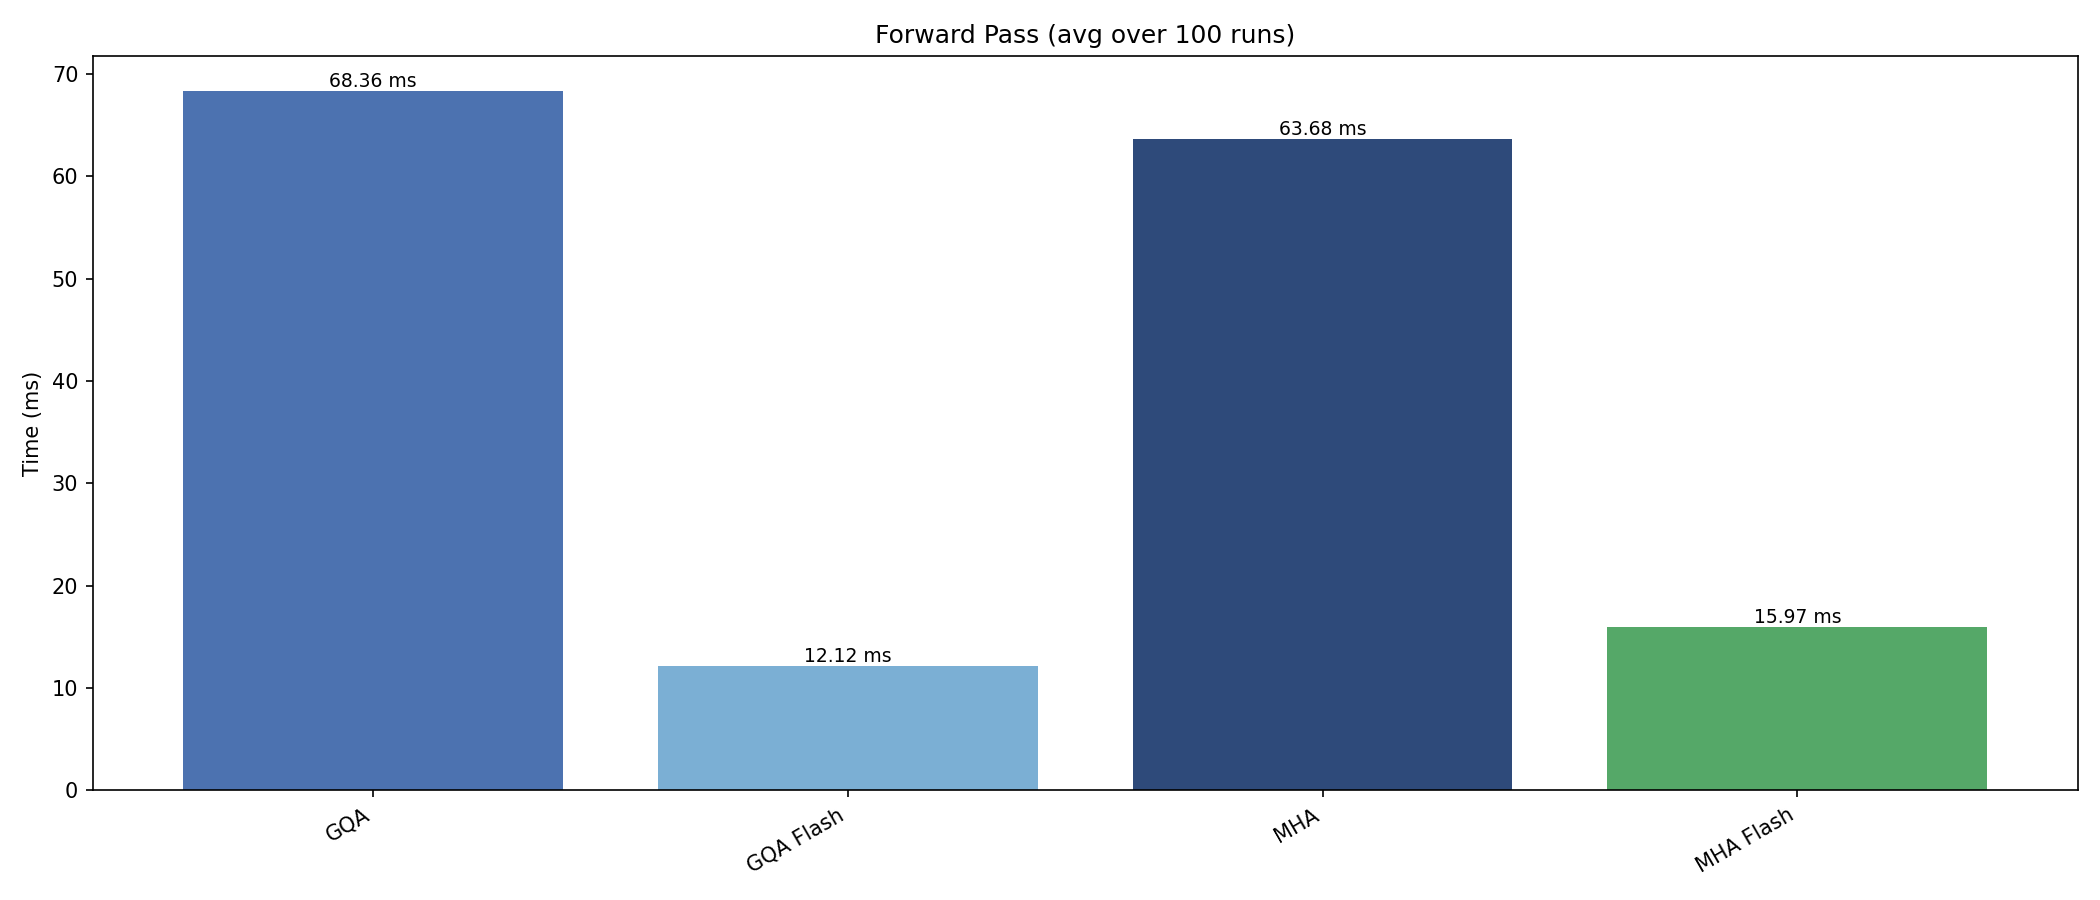
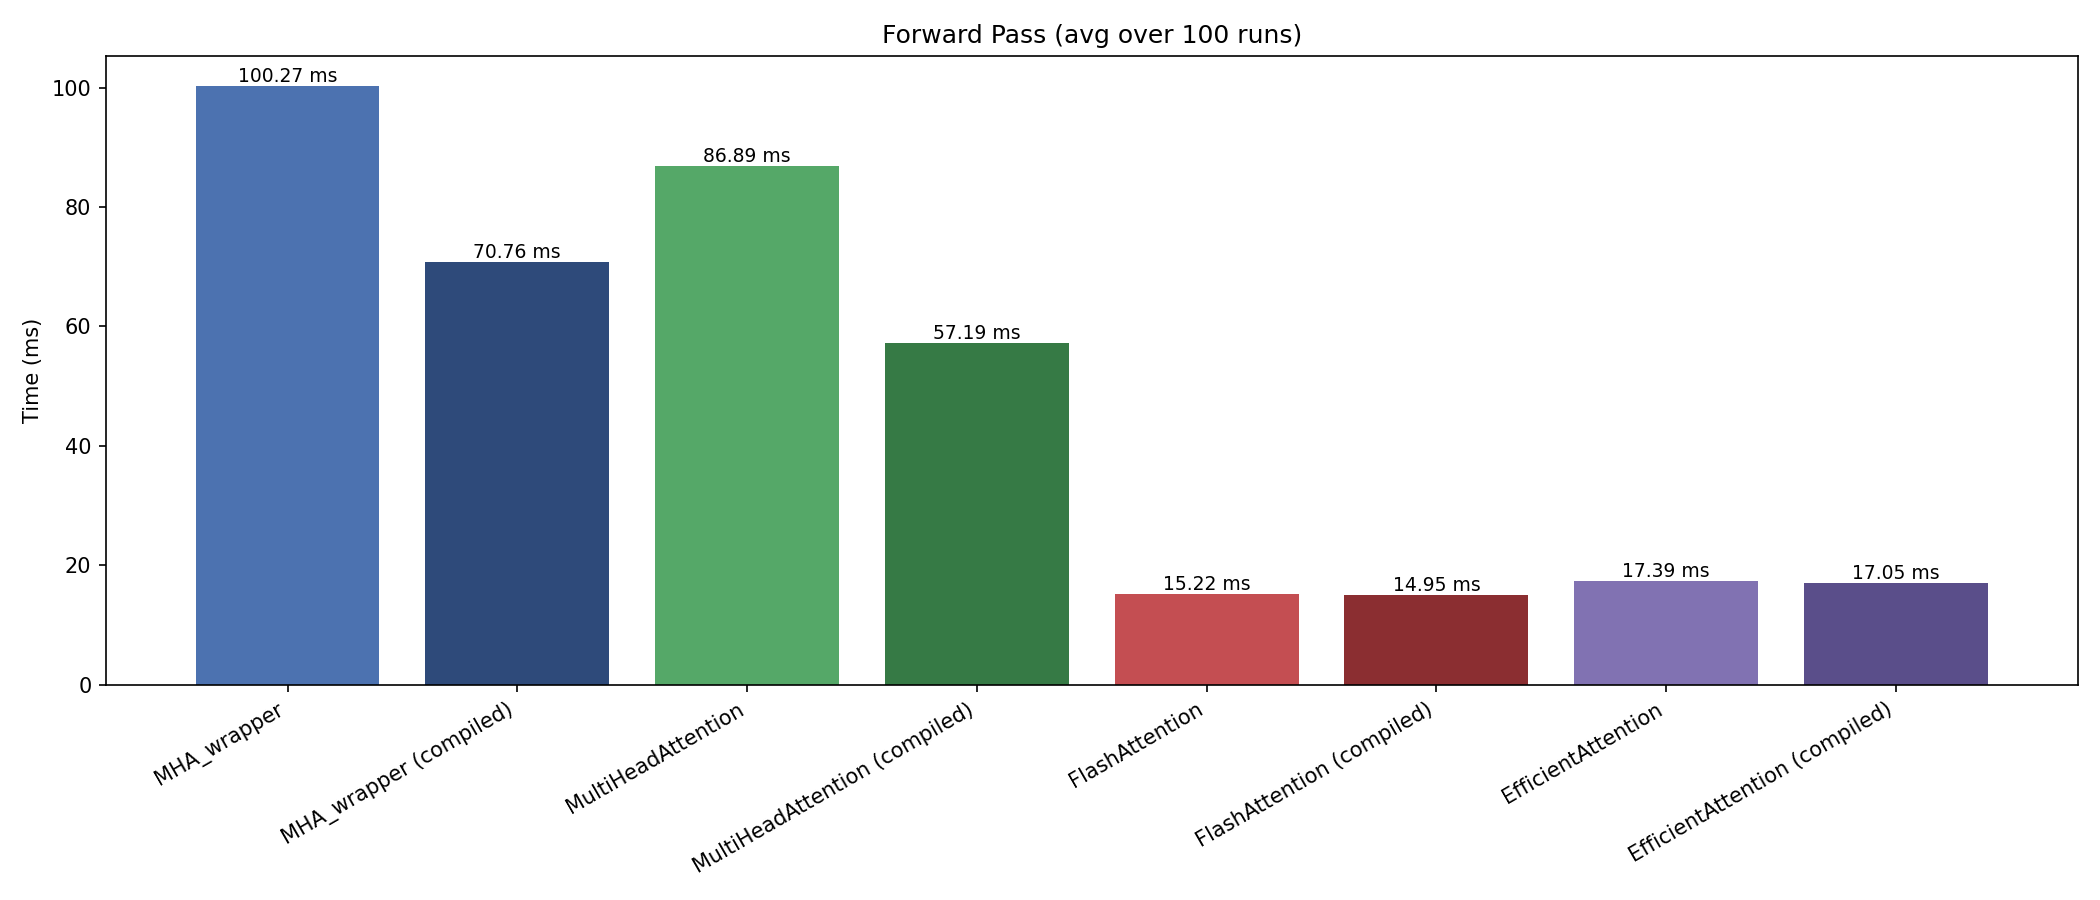
adding MFU metric and RoPE on GQA

diff --git a/metrics/MFU.py b/metrics/MFU.py
@@ -1,0 +1,113 @@
+def estimate_flops_per_layer(config: dict) -> dict:
+    """
+    Estimate the number of floating point operations per transformer layer.
+
+    config keys:
+        batch_size (B): batch size
+        seq_len (T): sequence length
+        d_model: model dimension
+        num_heads (H): number of attention heads
+        d_ff: feed-forward hidden dim (defaults to 4 * d_model if not provided)
+        num_kv_heads: number of KV heads for GQA (defaults to num_heads = standard MHA)
+
+    Each multiply-add counts as 2 FLOPs.
+    Returns a dict with per-operation and total FLOPs for one layer.
+    """
+    B = config["batch_size"]
+    T = config["seq_len"]
+    D = config["d_model"]
+    H = config["num_heads"]
+    d_head = D // H
+    d_ff = config.get("d_ff", 4 * D)
+    num_kv_heads = config.get("num_kv_heads", H)
+
+    # Q projection: B * T * D -> B * T * D
+    qkv_q = 2 * B * T * D * D
+    # K projection: B * T * D -> B * T * (num_kv_heads * d_head)
+    qkv_k = 2 * B * T * D * (num_kv_heads * d_head)
+    # V projection: same as K
+    qkv_v = 2 * B * T * D * (num_kv_heads * d_head)
+
+    # Attention scores: Q @ K^T -> (B, H, T, T)
+    # Each head does (T, d_head) @ (d_head, T) = 2 * T * T * d_head
+    attn_scores = 2 * B * H * T * T * d_head
+
+    # Attention @ V -> (B, H, T, d_head)
+    attn_v = 2 * B * H * T * T * d_head
+
+    # Output projection: B * T * D -> B * T * D
+    out_proj = 2 * B * T * D * D
+
+    # FFN: two linear layers (D -> d_ff -> D)
+    ffn_up = 2 * B * T * D * d_ff
+    ffn_down = 2 * B * T * d_ff * D
+
+    ops = {
+        "qkv_q": qkv_q,
+        "qkv_k": qkv_k,
+        "qkv_v": qkv_v,
+        "attn_scores": attn_scores,
+        "attn_v": attn_v,
+        "out_proj": out_proj,
+        "ffn_up": ffn_up,
+        "ffn_down": ffn_down,
+    }
+    ops["total"] = sum(ops.values())
+    return ops
+
+
+def estimate_total_flops(config: dict) -> dict:
+    """
+    Estimate total FLOPs for the full model (all layers).
+
+    Additional config key:
+        num_layers: number of transformer layers
+        training: if True, multiply by 3 (forward + backward ≈ 3x forward)
+    """
+    num_layers = config["num_layers"]
+    training = config.get("training", False)
+
+    per_layer = estimate_flops_per_layer(config)
+    total = {k: v * num_layers for k, v in per_layer.items()}
+
+    if training:
+        total = {k: v * 3 for k, v in total.items()}
+
+    return total
+
+
+def estimate_mfu(config: dict, elapsed_sec: float, gpu_peak_tflops: float) -> float:
+    """
+    Estimate Model FLOPs Utilization.
+
+    Args:
+        config: model config dict (same as estimate_total_flops, with training=True for training)
+        elapsed_sec: wall-clock time in seconds for the measured pass
+        gpu_peak_tflops: GPU peak throughput in TFLOP/s (e.g. 35.6 for 3060, 142 for 3090 in fp16)
+
+    Returns:
+        MFU as a fraction (0.0 to 1.0)
+    """
+    flops = estimate_total_flops(config)["total"]
+    achieved_tflops = flops / elapsed_sec / 1e12
+    return achieved_tflops / gpu_peak_tflops
+
+
+if __name__ == "__main__":
+    config = {
+        "batch_size": 8,
+        "seq_len": 2048,
+        "d_model": 1024,
+        "num_heads": 16,
+        "num_layers": 24,
+        "training": True,
+    }
+
+    per_layer = estimate_flops_per_layer(config)
+    print("FLOPs per layer:")
+    for k, v in per_layer.items():
+        print(f"  {k}: {v:.2e}")
+
+    total = estimate_total_flops(config)
+    print(f"\nTotal FLOPs ({config['num_layers']} layers, training={config['training']}):")
+    print(f"  {total['total']:.2e}")

diff --git a/architecture/attention/MHA/benchmark.py b/architecture/attention/MHA/benchmark.py
@@ -6,40 +6,42 @@ from architecture.attention.MHA.MHA import (
     MultiHeadAttention,
     MHAFlashAttention,
     MHAEfficientAttention,
-    MHAMathAttention,
 )
 
-d_in = 768
-d_out = 768
-context_length = 1024
-dropout = 0.0
-num_heads = 12
-batch_size = 4
-seq_len = 512
-
+batch_size    = 8
+seq_len = context_length    = 2048
+d_in = d_out  = 1024
+num_heads     = 16
+num_kv_groups = 4
+dtype         = torch.float16
+dropout       = 0.0
 device = torch.device("cuda" if torch.cuda.is_available() else "cpu")
 
-models = {
-    "MHA_wrapper": MHA_wrapper(d_in, d_out, context_length, dropout, num_heads),
-    "MHA_wrapper (compiled)": MHA_wrapper(d_in, d_out, context_length, dropout, num_heads, compile=True),
-    "MultiHeadAttention": MultiHeadAttention(d_in, d_out, context_length, dropout, num_heads),
-    "MultiHeadAttention (compiled)": MultiHeadAttention(d_in, d_out, context_length, dropout, num_heads, compile=True),
-    "FlashAttention": MHAFlashAttention(d_in, d_out, context_length, dropout, num_heads),
-    "FlashAttention (compiled)": MHAFlashAttention(d_in, d_out, context_length, dropout, num_heads, compile=True),
-    "EfficientAttention": MHAEfficientAttention(d_in, d_out, context_length, dropout, num_heads),
-    "EfficientAttention (compiled)": MHAEfficientAttention(d_in, d_out, context_length, dropout, num_heads, compile=True),
-    "MathAttention": MHAMathAttention(d_in, d_out, context_length, dropout, num_heads),
-    "MathAttention (compiled)": MHAMathAttention(d_in, d_out, context_length, dropout, num_heads, compile=True),
+model_factories = {
+    "MHA_wrapper": lambda: MHA_wrapper(d_in, d_out, context_length, dropout, num_heads),
+    "MHA_wrapper (compiled)": lambda: MHA_wrapper(d_in, d_out, context_length, dropout, num_heads, compile=True),
+    "MultiHeadAttention": lambda: MultiHeadAttention(d_in, d_out, context_length, dropout, num_heads),
+    "MultiHeadAttention (compiled)": lambda: MultiHeadAttention(d_in, d_out, context_length, dropout, num_heads, compile=True),
+    "FlashAttention": lambda: MHAFlashAttention(d_in, d_out, context_length, dropout, num_heads),
+    "FlashAttention (compiled)": lambda: MHAFlashAttention(d_in, d_out, context_length, dropout, num_heads, compile=True),
+    "EfficientAttention": lambda: MHAEfficientAttention(d_in, d_out, context_length, dropout, num_heads),
+    "EfficientAttention (compiled)": lambda: MHAEfficientAttention(d_in, d_out, context_length, dropout, num_heads, compile=True),
 }
 
-dtype = torch.float16 if device.type == "cuda" else torch.float32
 x = torch.randn(batch_size, seq_len, d_in, device=device, dtype=dtype)
 
-num_runs = 15
+num_runs = 100
 results = {}
 
-for name, model in models.items():
-    model = model.to(device=device, dtype=dtype).eval()
+print("\n--- Forward  ---")
+
+
+## Forward benchmark
+for name, factory in model_factories.items():
+    model = factory().to(device=device, dtype=dtype).eval()
+    if device.type == "cuda":
+        free, total = torch.cuda.mem_get_info()
+        print(f"[{name}] after init — Free: {free / 1e9:.2f} GB / Total: {total / 1e9:.2f} GB")
 
     # warmup for CUDA
     if device.type == "cuda":
@@ -64,6 +66,11 @@ for name, model in models.items():
     avg_ms = sum(times) / num_runs
     results[name] = avg_ms
     print(f"{name}: {avg_ms:.2f} ms (avg over {num_runs} runs)")
+    del model
+    if device.type == "cuda":
+        torch.cuda.empty_cache()
+        free, total = torch.cuda.mem_get_info()
+        print(f"[{name}] after delete — Free: {free / 1e9:.2f} GB / Total: {total / 1e9:.2f} GB")
 
 ## Forward plot
 names = list(results.keys())
@@ -73,7 +80,6 @@ colors = [
     "#55a868", "#367a45",
     "#c44e52", "#8b2e31",
     "#8172b2", "#5a4e8a",
-    "#ccb974", "#a89450",
 ]
 
 plt.figure(figsize=(14, 6))
@@ -92,8 +98,11 @@ plt.show()
 print("\n--- Forward + Backward ---")
 results_fwd_bwd = {}
 
-for name, model in models.items():
-    model = model.to(device=device, dtype=dtype).train()
+for name, factory in model_factories.items():
+    model = factory().to(device=device, dtype=dtype).train()
+    if device.type == "cuda":
+        free, total = torch.cuda.mem_get_info()
+        print(f"[{name}] after init — Free: {free / 1e9:.2f} GB / Total: {total / 1e9:.2f} GB")
 
     # warmup
     if device.type == "cuda":
@@ -121,6 +130,11 @@ for name, model in models.items():
     avg_ms = sum(times) / num_runs
     results_fwd_bwd[name] = avg_ms
     print(f"{name}: {avg_ms:.2f} ms (avg over {num_runs} runs)")
+    del model
+    if device.type == "cuda":
+        torch.cuda.empty_cache()
+        free, total = torch.cuda.mem_get_info()
+        print(f"[{name}] after delete — Free: {free / 1e9:.2f} GB / Total: {total / 1e9:.2f} GB")
 
 ## Forward + Backward plot
 fwd_bwd_times = list(results_fwd_bwd.values())

diff --git a/architecture/attention/GQA/GQA.py b/architecture/attention/GQA/GQA.py
@@ -3,8 +3,32 @@ import torch.nn as nn
 import torch.nn.functional as F
 from torch.nn.attention import sdpa_kernel, SDPBackend
 
+
+def precompute_rope_freqs(head_dim, max_seq_len, theta=10000.0):
+    freqs = 1.0 / (theta ** (torch.arange(0, head_dim, 2).float() / head_dim))
+    positions = torch.arange(max_seq_len).float()
+    angles = torch.outer(positions, freqs)
+    cos = angles.cos()
+    sin = angles.sin()
+    return cos, sin
+
+
+def apply_rope(x, cos, sin):
+    # x shape: (batch, num_heads, seq_len, head_dim)
+    seq_len = x.shape[2]
+    cos = cos[:seq_len].unsqueeze(0).unsqueeze(0).to(x.dtype)  # (1, 1, seq_len, head_dim//2)
+    sin = sin[:seq_len].unsqueeze(0).unsqueeze(0).to(x.dtype)
+
+    x1 = x[..., ::2]   # even indices
+    x2 = x[..., 1::2]  # odd indices
+
+    rotated = torch.stack((x1 * cos - x2 * sin, x1 * sin + x2 * cos), dim=-1)
+    return rotated.flatten(-2)
+
+
+
 class GroupedQueryAttention(nn.Module) : 
-    def __init__(self,d_in,d_out, dropout,num_heads,num_kv_groups, dtype=torch.float16, qkv_bias=False): 
+    def __init__(self,d_in,d_out, dropout,num_heads,num_kv_groups, dtype=torch.float16, qkv_bias=False,context_window=4096): 
 
         super().__init__() 
 
@@ -61,7 +85,7 @@ class GroupedQueryAttention(nn.Module) :
     
 
 class GQAFlashAttention(nn.Module) :
-    def __init__(self,d_in,d_out, dropout,num_heads,num_kv_groups, dtype=torch.float16, qkv_bias=False, compile:bool=False):
+    def __init__(self,d_in,d_out, dropout,num_heads,num_kv_groups, dtype=torch.float16, qkv_bias=False, compile:bool=False, context_window=4096):
 
         super().__init__()
 
@@ -79,6 +103,11 @@ class GQAFlashAttention(nn.Module) :
         self.W_query = nn.Linear(d_in,d_out,bias=qkv_bias,dtype=dtype)
         self.W_out_proj = nn.Linear(d_out,d_out,bias=qkv_bias,dtype=dtype)
 
+        cos, sin = precompute_rope_freqs(self.head_dim, context_window)
+        self.register_buffer("rope_cos", cos)
+        self.register_buffer("rope_sin", sin)
+
+
         if compile:
             self.forward = torch.compile(self.forward)
 
@@ -88,6 +117,10 @@ class GQAFlashAttention(nn.Module) :
         q = self.W_query(x).view(b, num_tokens, self.num_heads, self.head_dim).transpose(1, 2)
         k = self.W_key(x).view(b, num_tokens, self.num_kv_groups, self.head_dim).transpose(1, 2)
         v = self.W_value(x).view(b, num_tokens, self.num_kv_groups, self.head_dim).transpose(1, 2)
+        
+        q = apply_rope(q, self.rope_cos, self.rope_sin)
+        k = apply_rope(k, self.rope_cos, self.rope_sin)
+
 
         with sdpa_kernel(SDPBackend.FLASH_ATTENTION):
             context = F.scaled_dot_product_attention(

diff --git a/architecture/attention/MHA/MHA.py b/architecture/attention/MHA/MHA.py
@@ -105,27 +105,6 @@ class MultiHeadAttention(nn.Module) :
 
         return context_vec 
 
-def precompute_rope_freqs(head_dim, max_seq_len, theta=10000.0):
-    freqs = 1.0 / (theta ** (torch.arange(0, head_dim, 2).float() / head_dim))
-    positions = torch.arange(max_seq_len).float()
-    angles = torch.outer(positions, freqs)
-    cos = angles.cos()
-    sin = angles.sin()
-    return cos, sin
-
-
-def apply_rope(x, cos, sin):
-    # x shape: (batch, num_heads, seq_len, head_dim)
-    seq_len = x.shape[2]
-    cos = cos[:seq_len].unsqueeze(0).unsqueeze(0)  # (1, 1, seq_len, head_dim//2)
-    sin = sin[:seq_len].unsqueeze(0).unsqueeze(0)
-
-    x1 = x[..., ::2]   # even indices
-    x2 = x[..., 1::2]  # odd indices
-
-    rotated = torch.stack((x1 * cos - x2 * sin, x1 * sin + x2 * cos), dim=-1)
-    return rotated.flatten(-2)
-
 
 class MHAFlashAttention(nn.Module):
     def __init__(self, d_in, d_out, context_length, dropout, num_heads, qkv_bias=False, compile:bool=False):
@@ -140,10 +119,6 @@ class MHAFlashAttention(nn.Module):
         self.W_value = nn.Linear(d_in, d_out, bias=qkv_bias)
         self.out_proj = nn.Linear(d_out, d_out, bias=qkv_bias)
         self.dropout_p = dropout
-
-        cos, sin = precompute_rope_freqs(self.head_dim, context_length)
-        self.register_buffer("rope_cos", cos)
-        self.register_buffer("rope_sin", sin)
 
         if compile:
             self.forward = torch.compile(self.forward)